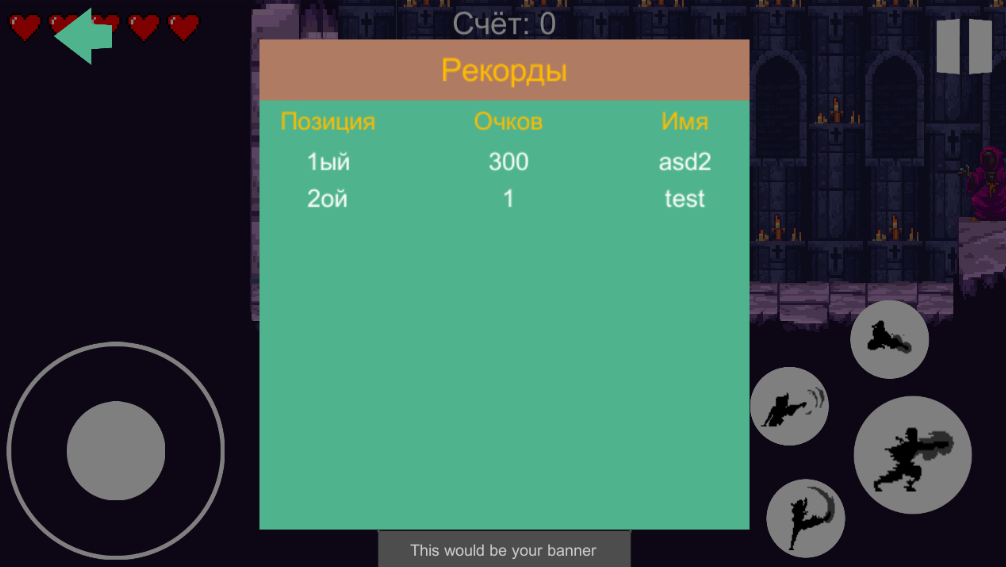
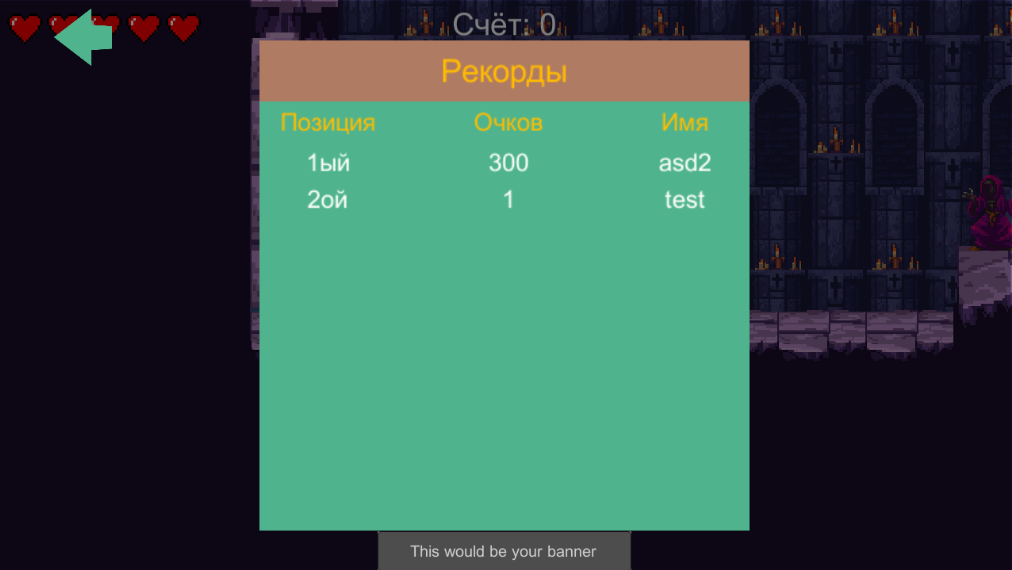
new readme

diff --git a/Assets/Camera1.cs b/Assets/Camera1.cs
@@ -45,12 +45,14 @@ public class Camera1 : MonoBehaviour
 
     public void SetPause() {
         pausePanel.SetActive(true);
+        androidControl.SetActive(false);
         Time.timeScale = 0;
         AdsManager.ShowBanner(true);
     }
 
     public void PauseOff() {
         pausePanel.SetActive(false);
+        androidControl.SetActive(true);
         Time.timeScale = 1;
         AdsManager.ShowBanner(false);
     }
@@ -92,6 +94,7 @@ public class Camera1 : MonoBehaviour
     private void LevelEnding() {
         if(!GameObject.Find("Angel") ) {
             levelNextPanel.SetActive(true);
+            androidControl.SetActive(false);
             Time.timeScale = 0;
         } 
     }
